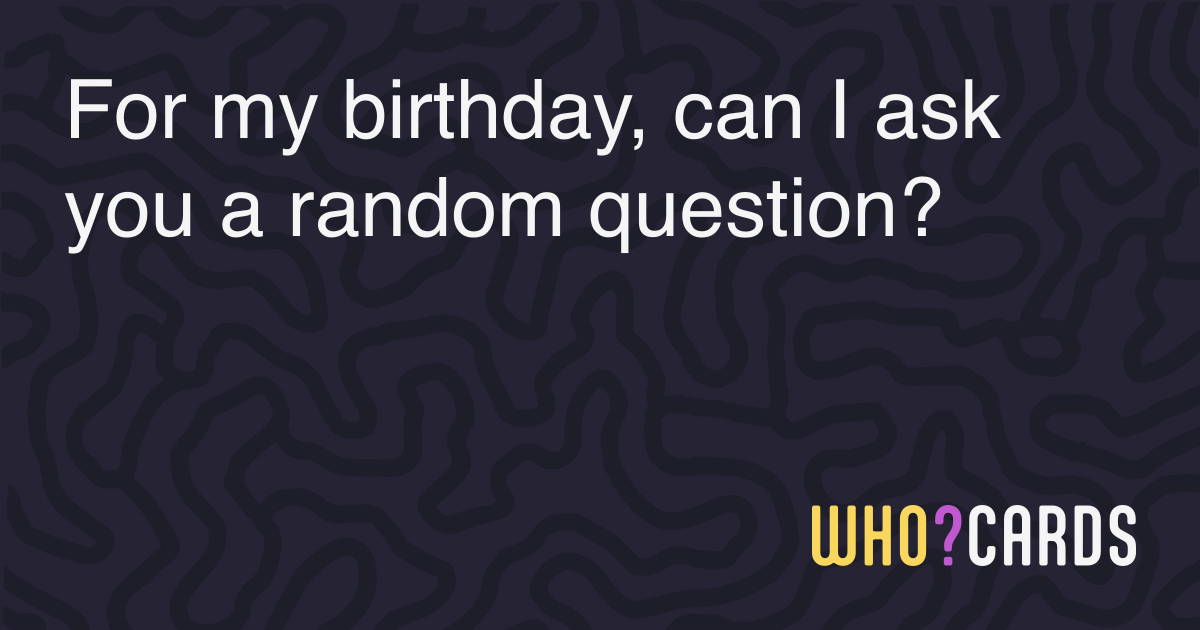
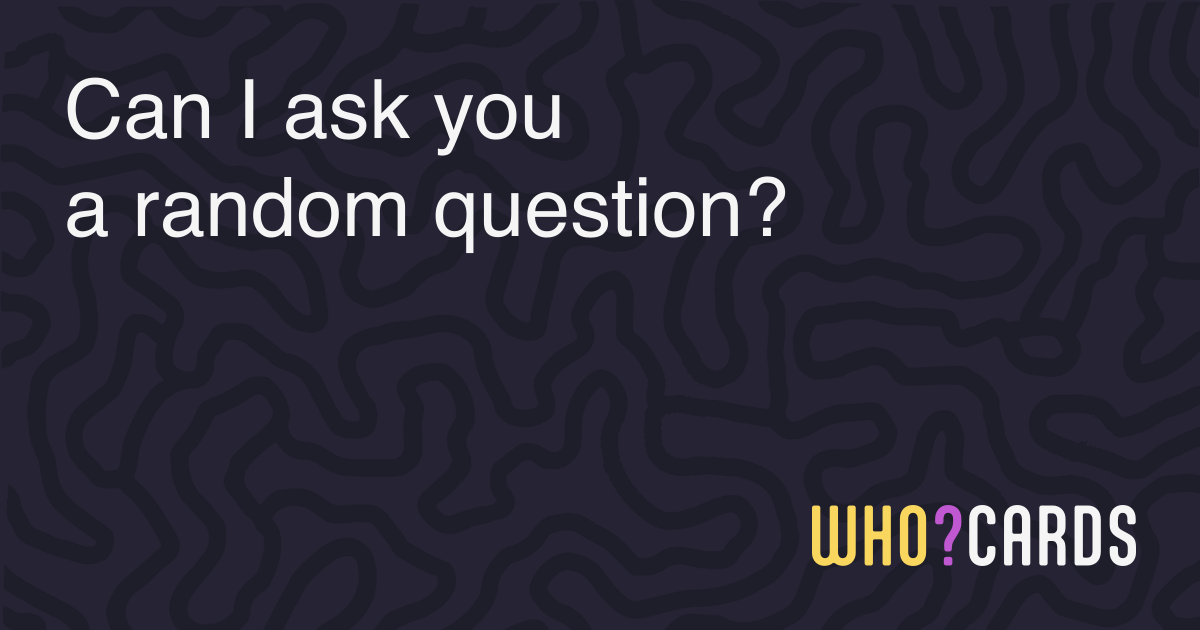
Address Android tester PR review comments

Changed region(s): [[0.0308, 0.2714, 0.8017, 0.3921], [0.0617, 0.1206, 0.8325, 0.2413]]

diff --git a/apps/website/src/constants/android-testers.ts b/apps/website/src/constants/android-testers.ts
@@ -1,5 +1,6 @@
 import {env} from '~env'
 
+export const ANDROID_TESTER_SIGNUP_URL = env.ANDROID_TESTER_SIGNUP_URL ?? '/android-testers'
 export const ANDROID_TESTER_GROUP_URL = env.ANDROID_TESTER_GROUP_URL
 export const ANDROID_TESTER_OPT_IN_URL = env.ANDROID_TESTER_OPT_IN_URL
 export const ANDROID_TESTER_FEEDBACK_URL = env.ANDROID_TESTER_FEEDBACK_URL ?? '/contact'

diff --git a/apps/website/src/env.ts b/apps/website/src/env.ts
@@ -23,6 +23,7 @@ export const env = createEnv({
     RESEND_SEGMENT_NEWSLETTER_ID: z.string().optional(),
     RESEND_SEGMENT_APP_WAITLIST_ID: z.string().optional(),
     // Android Closed Test links used by /android-testers and tester lifecycle emails.
+    ANDROID_TESTER_SIGNUP_URL: optionalUrl,
     ANDROID_TESTER_GROUP_URL: optionalUrl,
     ANDROID_TESTER_OPT_IN_URL: optionalUrl,
     ANDROID_TESTER_FEEDBACK_URL: optionalUrl,

diff --git a/docs/growth/04-app-launch-plan.md b/docs/growth/04-app-launch-plan.md
@@ -104,8 +104,8 @@ next send, not turn “coming this week” into an apology email.
 The mandatory Closed Test is a separate engagement journey, not a footnote inside the general
 buildup email:
 
-1. **Recruitment — “help unlock the Android launch.”** Send the dedicated #82 template once the
-   Play Closed Testing opt-in URL exists. Send it to the consented newsletter audience and support
+1. **Recruitment — “help unlock the Android launch.”** Send the dedicated #82 template once both
+   the tester Google Group URL and the Play Closed Testing opt-in URL exist. Send it to the consented newsletter audience and support
    it with personal outreach; invite forwarding to Android friends. Link to a dedicated
    `/android-testers` instruction page rather than the public `/app` funnel, because testers are
    joining a beta cohort, not asking for the public launch notification. Start with the fewest